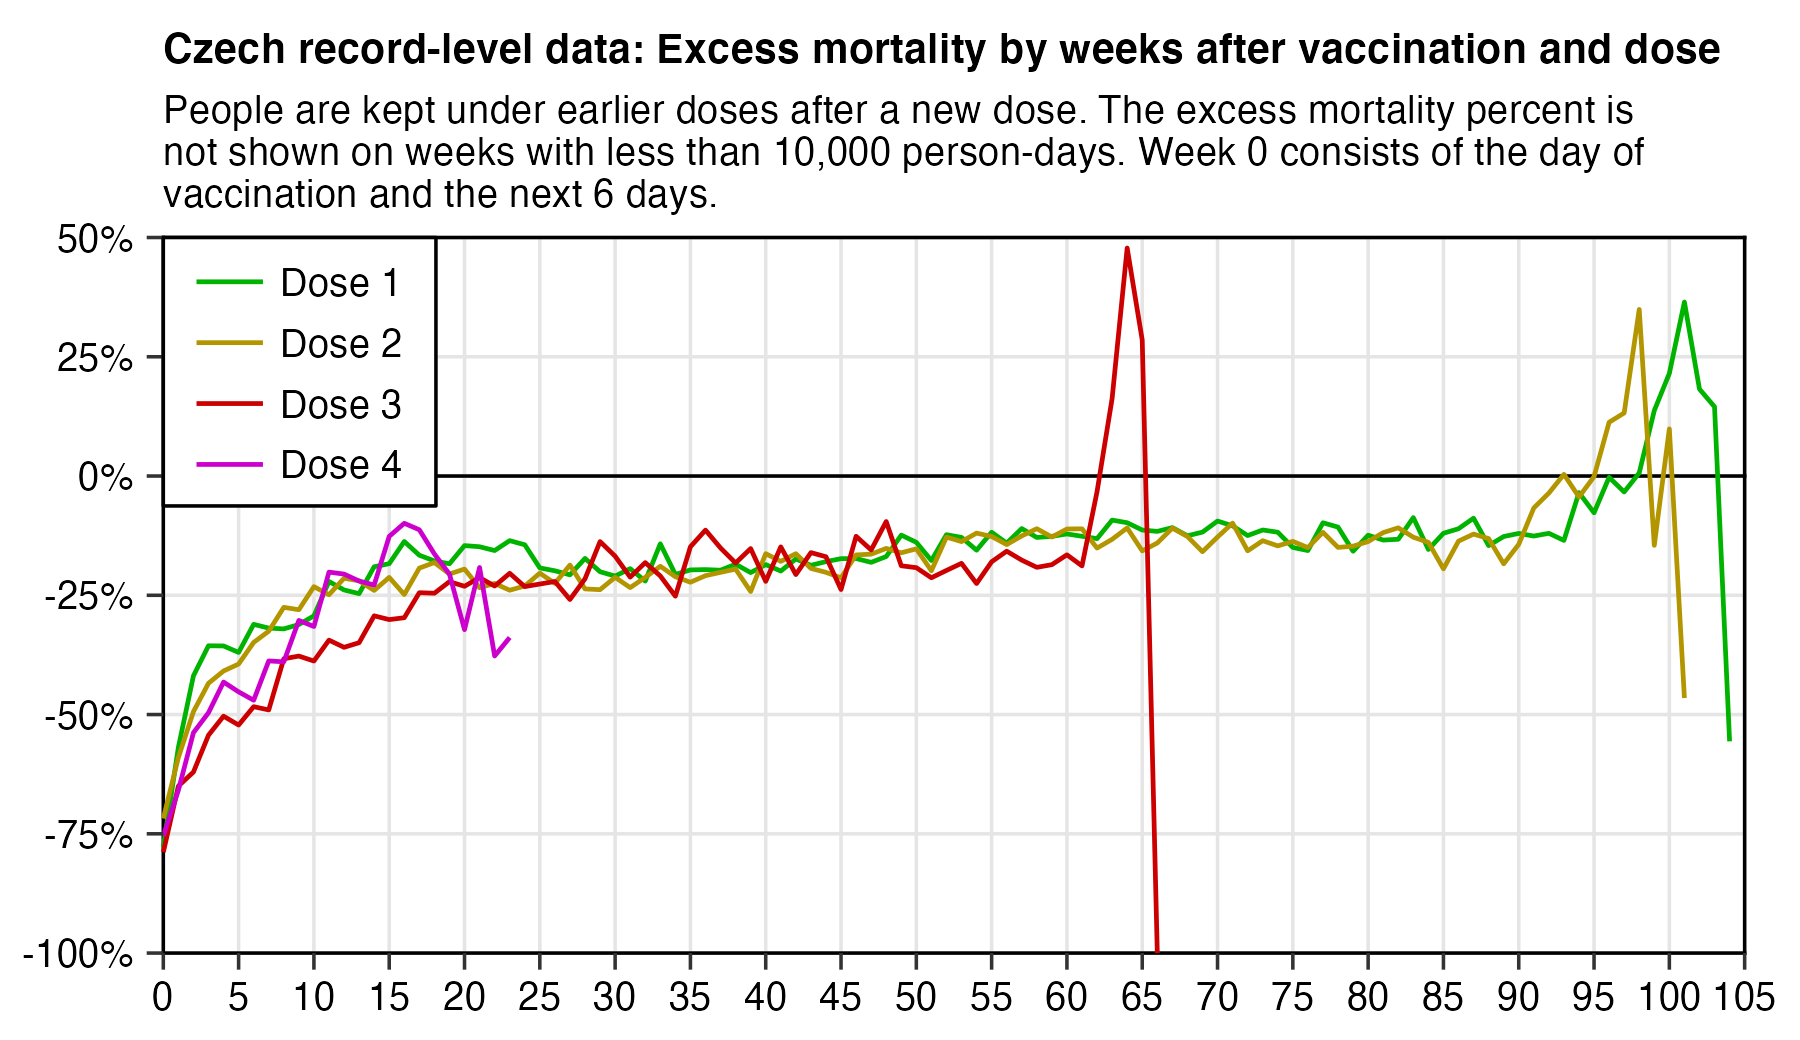
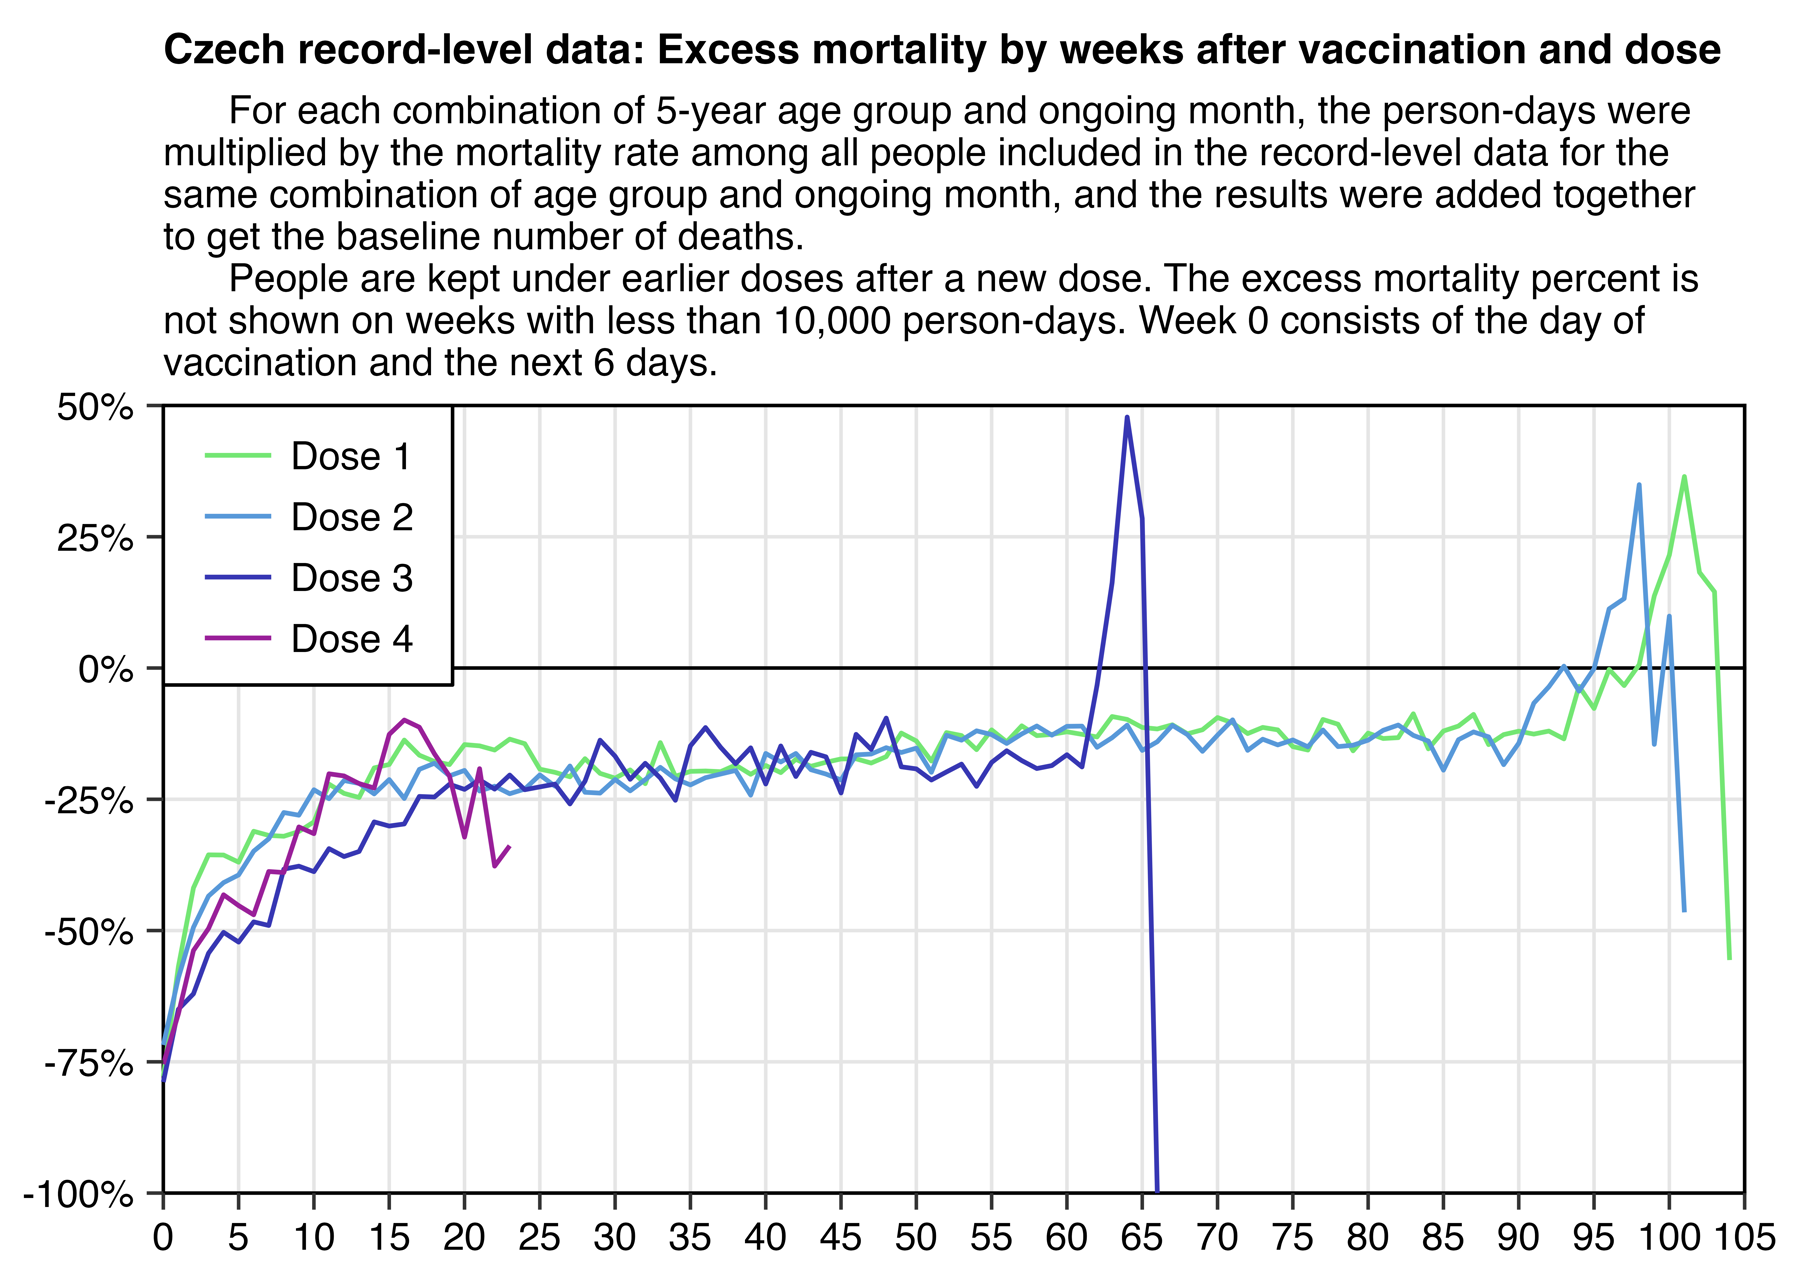
a

diff --git a/czech.html b/czech.html
@@ -1959,20 +1959,23 @@ d=merge(b[dose%in%1:4],b[dose&lt;=1,.(base=sum(dead)/sum(alive)),.(month,age)])[
 p=d[,.(y=(sum(dead)/sum(base)-1)*100,pop=sum(alive)),.(x=week,z=paste0(&quot;Dose &quot;,dose))]
 
 # # second plot
-d=merge(b[type!=&quot;&quot;&amp;type!=&quot;Other&quot;],b[dose&lt;=1,.(base=sum(dead)/sum(alive)),.(month,age)])[,base:=base*alive]
-p=d[,.(y=(sum(dead)/sum(base)-1)*100,pop=sum(alive)),.(x=week,z=factor(type,names(sort(table(type),T))))]
+# d=merge(b[type%in%c(&quot;Pfizer&quot;,&quot;Moderna&quot;)],b[dose&lt;=1,.(base=sum(dead)/sum(alive)),.(month,age)])[,base:=base*alive]
+# p=d[,.(y=(sum(dead)/sum(base)-1)*100,pop=sum(alive)),.(x=week,z=factor(type,names(sort(table(type),T))))]
 
 hidelim=1e4;p[pop&lt;hidelim,y:=NA]
 
 xstart=0;xend=105;xstep=5;ystart=-100;yend=50;ystep=25
 
-color=hsv(c(120,50,0,300)/360,1,c(.7,.7,.8,.8))
+color=hsv(c(12,21,24,30)/36,seq(.5,.8,,4),c(.9,.85,.7,.6))
+
+sub=paste0(&quot;      &quot;,&quot;For each combination of 5-year age group and ongoing month, the person-days were multiplied by the mortality rate among all people included in the record-level data for the same combination of age group and ongoing month, and the results were added together to get the baseline number of deaths.&quot;|&gt;stringr::str_wrap(90))
+sub=paste0(sub,&quot;\n      &quot;,paste0(&quot;People are kept under earlier doses after a new dose. The excess mortality percent is not shown on weeks with less than &quot;,formatC(hidelim,digits=0,format=&quot;f&quot;,big.mark=&quot;,&quot;),&quot; person-days. Week 0 consists of the day of vaccination and the next 6 days.&quot;)|&gt;stringr::str_wrap(90))
 
 ggplot(p,aes(x,y))+
 geom_hline(yintercept=c(ystart,0,yend),linewidth=.3,lineend=&quot;square&quot;)+
 geom_vline(xintercept=c(xstart,xend),linewidth=.3,lineend=&quot;square&quot;)+
 geom_line(aes(color=z),linewidth=.4)+
-labs(title=&quot;Czech record-level data: Excess mortality by weeks after vaccination and dose&quot;,subtitle=paste0(&quot;People are kept under earlier doses after a new dose. The excess mortality percent is not shown on weeks with less than &quot;,formatC(hidelim,digits=0,format=&quot;f&quot;,big.mark=&quot;,&quot;),&quot; person-days. Week 0 consists of the day of vaccination and the next 6 days.&quot;)|&gt;stringr::str_wrap(90),x=NULL,y=NULL)+
+labs(title=&quot;Czech record-level data: Excess mortality by weeks after vaccination and dose&quot;,subtitle=sub,x=NULL,y=NULL)+
 scale_x_continuous(limits=c(xstart,xend),breaks=seq(xstart,xend,xstep))+
 scale_y_continuous(limits=c(ystart,yend),breaks=seq(ystart,yend,ystep),labels=\(x)paste0(x,&quot;%&quot;))+
 scale_color_manual(values=color)+
@@ -1985,9 +1988,9 @@ theme(axis.text=element_text(size=7,color=&quot;black&quot;),
   legend.key.height=unit(11,&quot;pt&quot;),
   legend.key.width=unit(15,&quot;pt&quot;),
   legend.key=element_rect(fill=&quot;white&quot;),
-  legend.margin=margin(-3,6,2,4.5),
+  legend.margin=margin(-2,7,3,6),
   legend.position=c(0,1),
-  legend.spacing.x=unit(1.5,&quot;pt&quot;),
+  legend.spacing.x=unit(2,&quot;pt&quot;),
   legend.text=element_text(size=7),
   legend.title=element_blank(),
   panel.grid.major=element_line(linewidth=.3,color=&quot;gray90&quot;),
@@ -1995,7 +1998,8 @@ theme(axis.text=element_text(size=7,color=&quot;black&quot;),
   plot.margin=margin(4,10,4,4),
   plot.subtitle=element_text(size=7,margin=margin(0,0,4,0)),
   plot.title=element_text(size=7.5,face=&quot;bold&quot;,margin=margin(2,0,4,0)))
-ggsave(&quot;1.png&quot;,width=4.5,height=2.6,dpi=400)</pre>
+ggsave(&quot;0.png&quot;,width=4.5,height=3.2,dpi=400*4)
+system(&quot;convert 0.png -filter lanczos2 -resize 25% 1.png&quot;)</pre>
 <h2>
 <a href=#Excess_CMR_percent_in_vaccinated_people_relative_to_unvaccinated_people id=Excess_CMR_percent_in_vaccinated_people_relative_to_unvaccinated_people>Excess CMR percent in vaccinated people relative to unvaccinated people</a>
 </h2>
